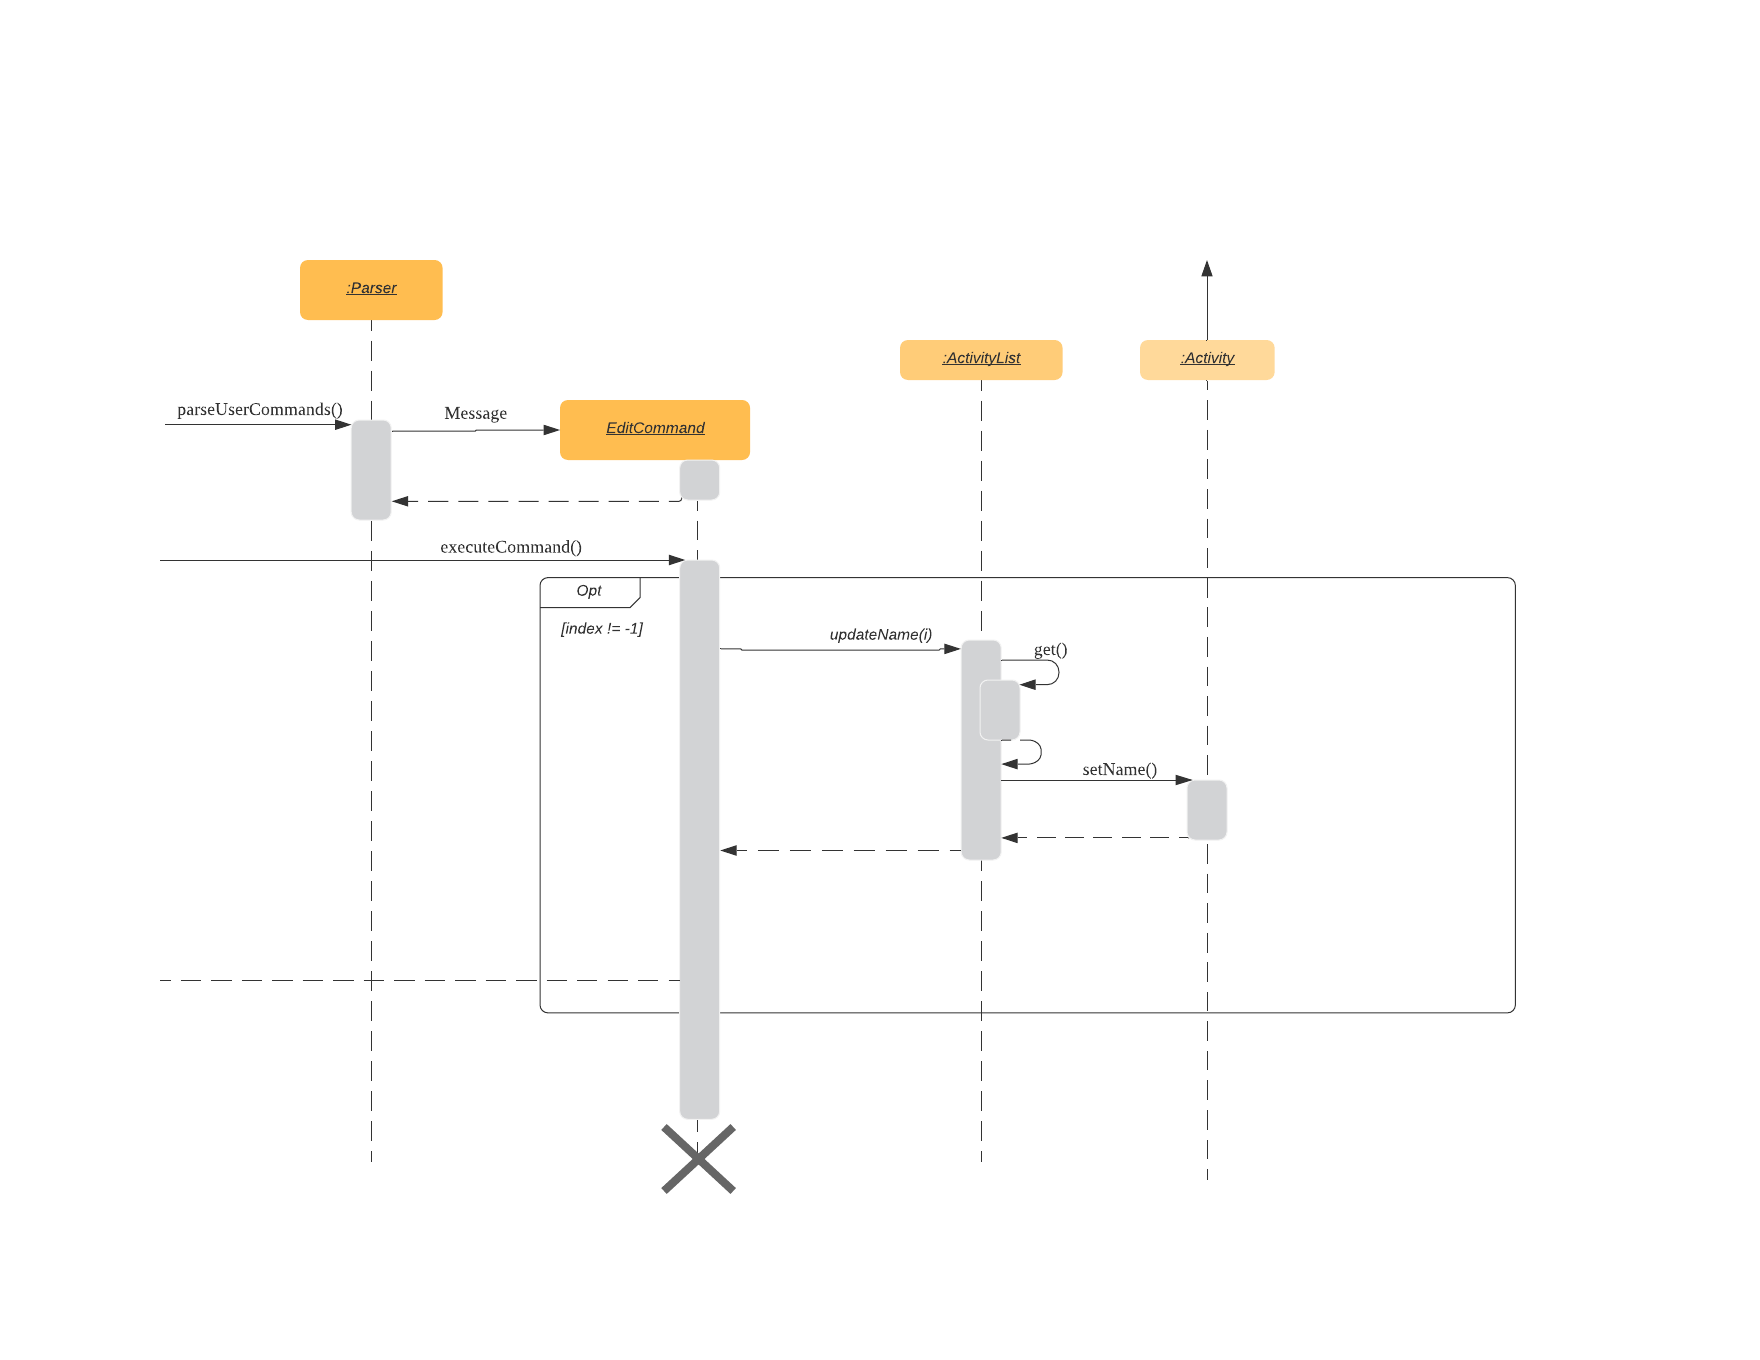
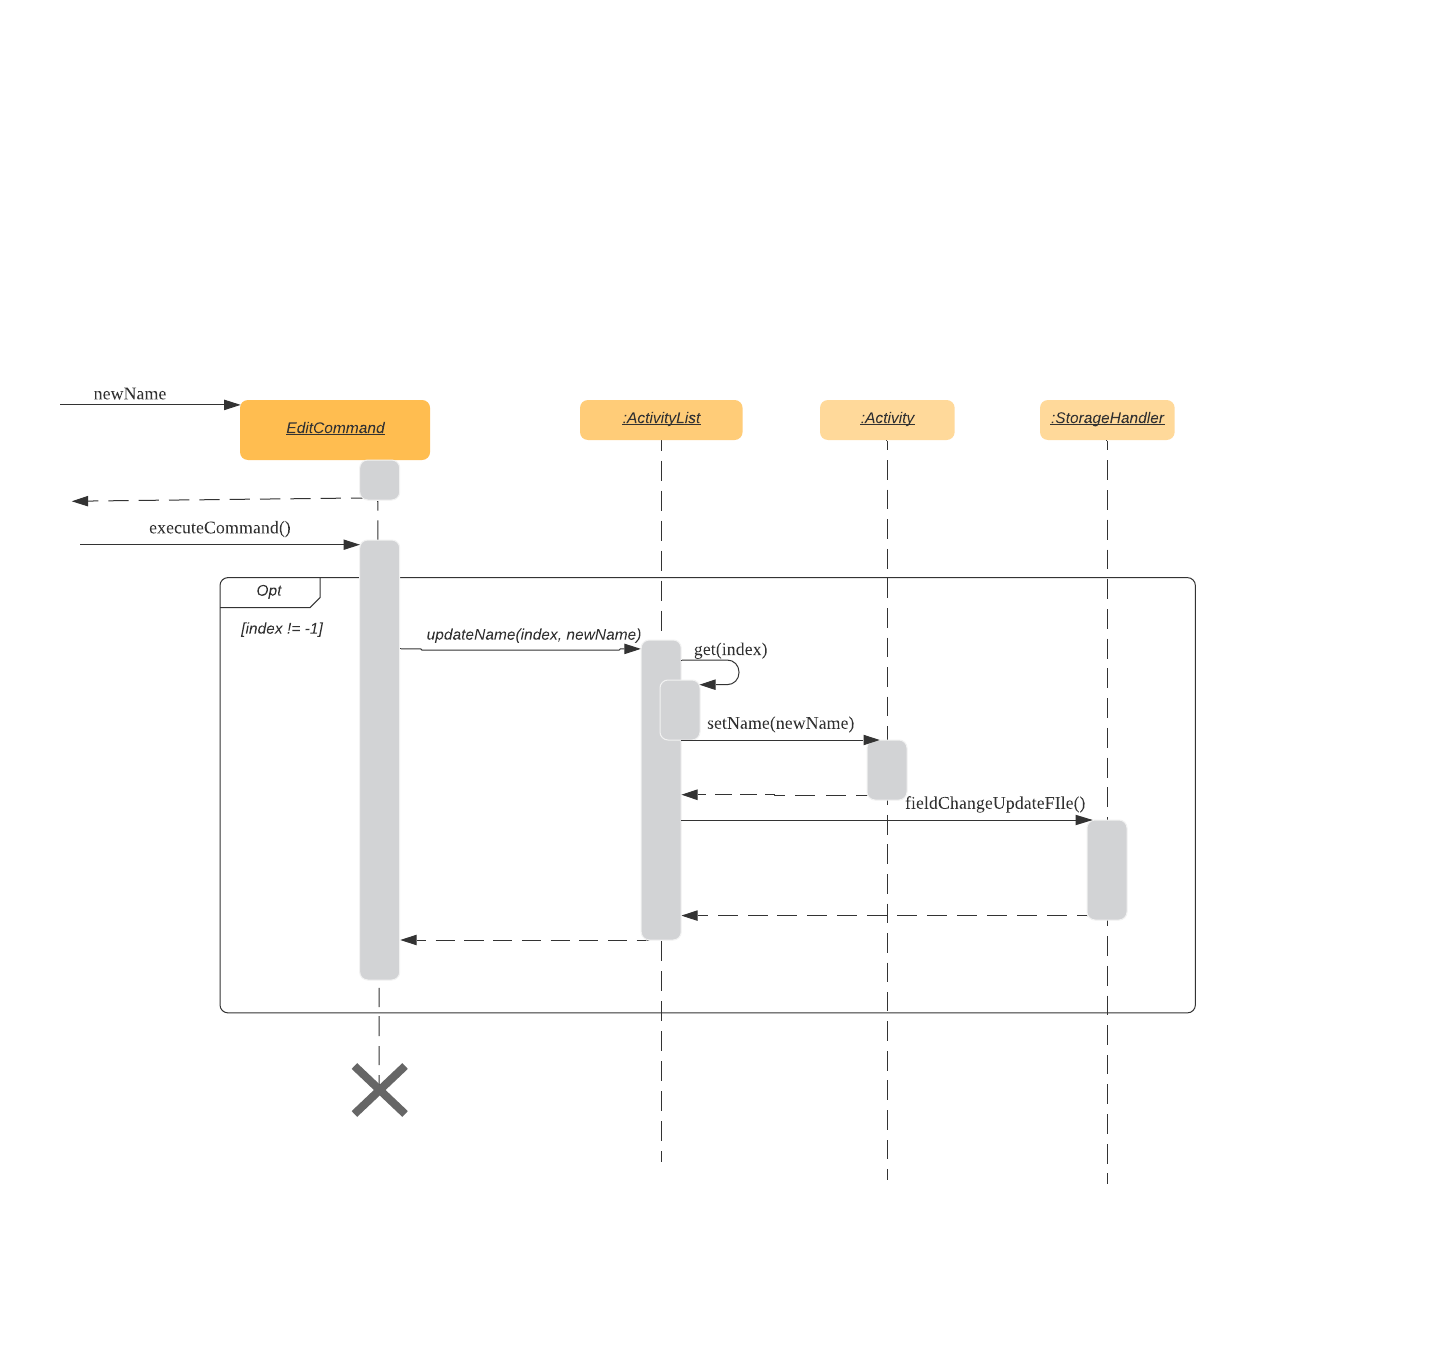
Update DG and PPP

Changed region(s): [[0.0625, 0.2471, 0.8125, 0.8647], [0.1562, 0.1853, 0.25, 0.2471], [0.25, 0.7721, 0.2812, 0.8338]]

diff --git a/docs/team/nigellenl.md b/docs/team/nigellenl.md
@@ -28,8 +28,9 @@
 
 ### Contributions to the DG  
 * Added setting up instructions.
-* Explained the implementation of the `edit` command (under section 3.4) using Sequence Diagrams 
+* Explained the implementation of the `edit` command (under section 3.4) using Sequence Diagram. 
 * Gave instructions for manual testing and included sample test cases for `goal` command.
+* Added the non-functional requirements for the program. 
 
 ### Contributions to team-based tasks  
 * Made extensive use of the issue tracker to manage enhancements and bugs.
@@ -76,12 +77,11 @@ By using the `goal` command, users can set specific goals for how long they woul
 ## Contributions to the Developer Guide (extracts)  
 
 ### Edit feature
-The edit feature allows the user to make changes to activities that have been saved in the activity list. This is to allow the user to rectify any mistakes that may have been made during the initial recording of the activity. 
+The current implementation of the edit feature allows the user to edit the activity name as well as its allocated time.
+The following sequence diagram shows how the edit feature works for editing the activity name. The diagram for the editing of allocated time is omitted as the sequence is relatively similar.  
 
-#### Current Implementation
-The following sequence diagram shows how the edit feature works.  
-_diagram omitted_
- 
+*[The sequence diagram has been omitted in this section]*  
+
 The current implementation of the edit feature allows the user to edit only the name parameter of the activity. When the user wants to edit an activity using the edit command, the Parser creates a new EditCommand object. The `executeCommand()` method of the EditCommand object is called and the specified parameters are updated accordingly.
 
 The order of method calls to edit the activity details is as follows if the specified activity exists (meaning `index >= 0`) else an exception is thrown:
@@ -90,12 +90,12 @@ The order of method calls to edit the activity details is as follows if the spec
 3. The `setName()` method of the Activity class is called to edit the activity name to the user-specified name
 4. The activity with the updated name is returned to the activityList  
 
-#### Additional Implementations
-The current implementation of the edit feature only allows the user to edit the activity name. Hence, additional implementations of the edit feature should allow the user to edit other parameters of the activity such as the tags and the start and end dates. 
+#### 3.4.2 Additional Implementations
+The current implementation of the edit feature only allows the user to edit the activity name and allocated time. Hence, additional implementations of the edit feature could allow the user to edit other parameters of the activity such as the tags and the start and end dates. 
 
 This will require the implementation of more update methods in the ActivityList class to allow for the changes to be updated in the activityList after it has been edited. 
 
-#### Design Considerations
-By letting the user edit the name and tags of the activity, it will allow them to correct any mistakes made during the data entry. This ensures that there is an accurate record of activities such as in cases where the user may be trying to record the same activity but has misspelled it, resulting in the program regarding it as a different activity where there would be multiple unnecessary new entries in the activity list, making the analysis of the time spent more tedious and inaccurate.
+#### 3.4.3 Design Considerations
+By letting the user edit the name and allocated time of the activity, it will allow them to correct any mistakes made during the data entry as well as allowing them to update their allocated time for the activity. This ensures that there is an accurate record of activities such as in cases where the user may be trying to record the same activity but has misspelled it, resulting in the program regarding it as a different activity where there would be multiple unnecessary new entries in the activity list, making the analysis of the time spent more tedious and inaccurate.
 
 However, by allowing the user to edit the start date and time, there may be potential inaccuracies in the actual activity recording. This is due to the fact that the time recorded in the program is based on the LocalDateTime. By introducing user input, the dates and time may be recorded incorrectly, defeating the purpose of the time tracking program. 

diff --git a/docs/DeveloperGuide.md b/docs/DeveloperGuide.md
@@ -148,7 +148,8 @@ The StorageHandler class functions as a support to the main Storage class, allow
 The edit feature allows the user to make changes to activities that have been saved in the activity list. This is to allow the user to rectify any mistakes that may have been made during the initial recording of the activity. 
 
 #### 3.4.1 Current Implementation
-The following sequence diagram shows how the edit feature works.
+The current implementation of the edit feature allows the user to edit the activity name as well as its allocated time.
+The following sequence diagram shows how the edit feature works for editing the activity name. The diagram for the editing of allocated time is omitted as the sequence is relatively similar.
 ![image_info](./pictures/EditSequenceDiagram.png)
 The current implementation of the edit feature allows the user to edit only the name parameter of the activity. When the user wants to edit an activity using the edit command, the Parser creates a new EditCommand object. The `executeCommand()` method of the EditCommand object is called and the specified parameters are updated accordingly.
 
@@ -159,12 +160,12 @@ The order of method calls to edit the activity details is as follows if the spec
 4. The activity with the updated name is returned to the activityList  
 
 #### 3.4.2 Additional Implementations
-The current implementation of the edit feature only allows the user to edit the activity name. Hence, additional implementations of the edit feature should allow the user to edit other parameters of the activity such as the tags and the start and end dates. 
+The current implementation of the edit feature only allows the user to edit the activity name and allocated time. Hence, additional implementations of the edit feature could allow the user to edit other parameters of the activity such as the tags and the start and end dates. 
 
 This will require the implementation of more update methods in the ActivityList class to allow for the changes to be updated in the activityList after it has been edited. 
 
 #### 3.4.3 Design Considerations
-By letting the user edit the name and tags of the activity, it will allow them to correct any mistakes made during the data entry. This ensures that there is an accurate record of activities such as in cases where the user may be trying to record the same activity but has misspelled it, resulting in the program regarding it as a different activity where there would be multiple unnecessary new entries in the activity list, making the analysis of the time spent more tedious and inaccurate.
+By letting the user edit the name and allocated time of the activity, it will allow them to correct any mistakes made during the data entry as well as allowing them to update their allocated time for the activity. This ensures that there is an accurate record of activities such as in cases where the user may be trying to record the same activity but has misspelled it, resulting in the program regarding it as a different activity where there would be multiple unnecessary new entries in the activity list, making the analysis of the time spent more tedious and inaccurate.
 
 However, by allowing the user to edit the start date and time, there may be potential inaccuracies in the actual activity recording. This is due to the fact that the time recorded in the program is based on the LocalDateTime. By introducing user input, the dates and time may be recorded incorrectly, defeating the purpose of the time tracking program. 
 
@@ -325,12 +326,13 @@ Allow users to record their daily activities and track their time usage in a use
 
 
 ### Non-Functional Requirements
-
-{Give non-functional requirements}
+* The program should be usable by a novice who has never used a time management application.
+* The program should work on most mainstream OSes. 
+* The program should be portable to other systems. 
 
 ### Glossary
 
-* *glossary item* - Definition
+* *Mainstream OSes:* Windows, MacOS, Linux 
 
 ### Instructions for Manual Testing  
   
